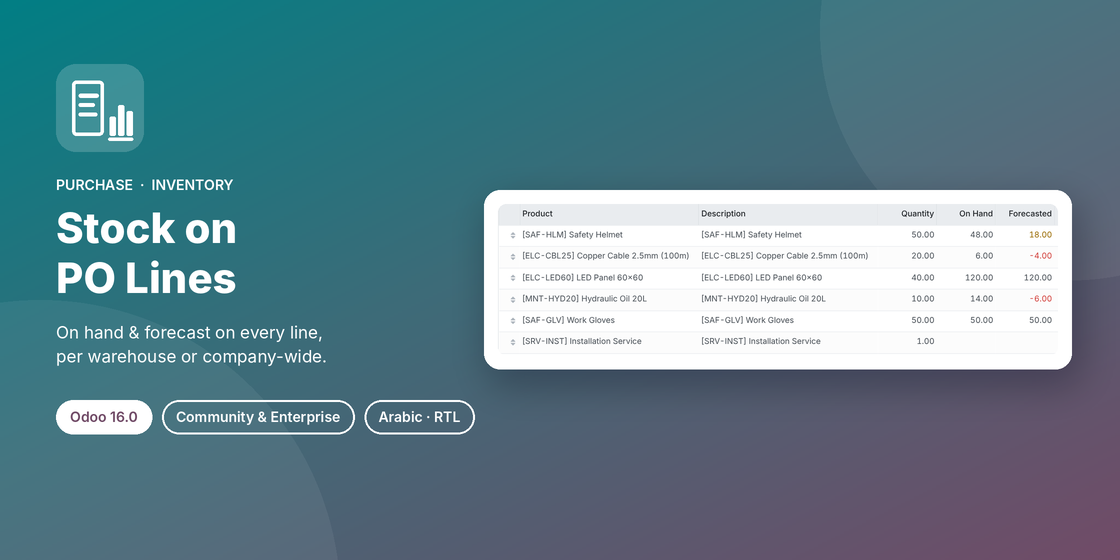
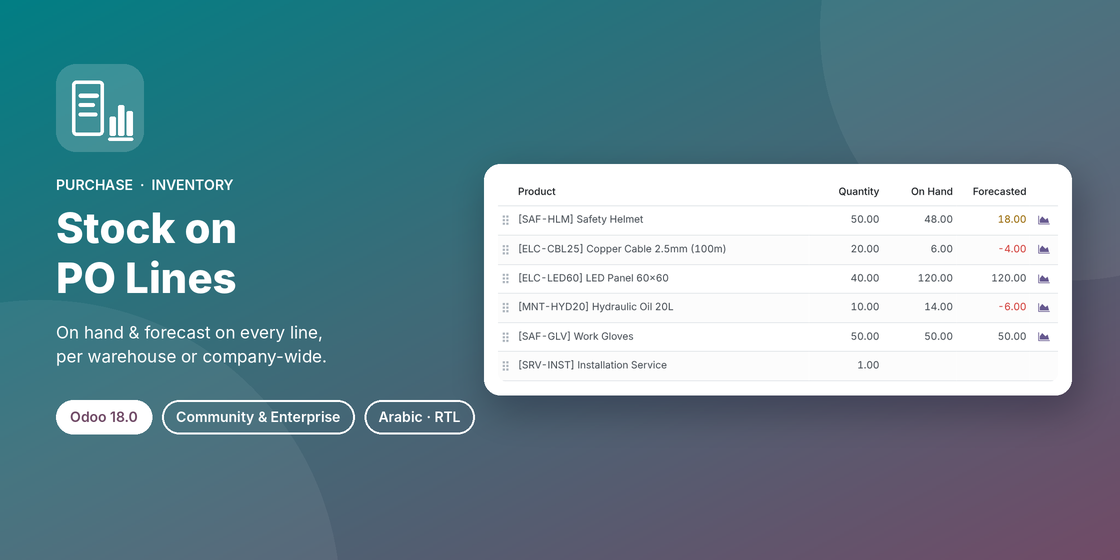
Add files via upload

diff --git a/po_line_available_stock/static/description/index.html b/po_line_available_stock/static/description/index.html
@@ -1,4 +1,4 @@
-<!-- Odoo Apps description page for po_line_available_stock (Odoo 16.0). Inline styles only: apps.odoo.com strips <style> and <script> blocks. -->
+<!-- Odoo Apps description page for po_line_available_stock (Odoo 18.0). Inline styles only: apps.odoo.com strips <style> and <script> blocks. -->
 <section style="max-width:1120px;margin:0 auto;padding:0 16px;font-family:-apple-system,BlinkMacSystemFont,'Segoe UI',Roboto,'Helvetica Neue',Arial,sans-serif;color:#2b2b33;">
 
 <!-- ============================== HERO ============================== -->
@@ -7,7 +7,7 @@
   <h1 style="font-size:40px;line-height:1.15;font-weight:700;margin:0 0 14px;color:#ffffff;">Stock on PO Lines</h1>
   <p style="font-size:19px;line-height:1.55;max-width:760px;margin:0 0 24px;color:#ffffff;opacity:.95;">See <b>On Hand</b> and <b>Forecasted</b> stock right next to the quantity on every purchase order line, for the receiving warehouse or for the whole company. Buyers order what is actually missing, without leaving the RFQ.</p>
   <div>
-    <span style="display:inline-block;border:1px solid rgba(255,255,255,.7);border-radius:20px;padding:6px 14px;margin:0 8px 8px 0;font-size:14px;">Odoo 16.0</span>
+    <span style="display:inline-block;border:1px solid rgba(255,255,255,.7);border-radius:20px;padding:6px 14px;margin:0 8px 8px 0;font-size:14px;">Odoo 18.0</span>
     <span style="display:inline-block;border:1px solid rgba(255,255,255,.7);border-radius:20px;padding:6px 14px;margin:0 8px 8px 0;font-size:14px;">Community &amp; Enterprise</span>
     <span style="display:inline-block;border:1px solid rgba(255,255,255,.7);border-radius:20px;padding:6px 14px;margin:0 8px 8px 0;font-size:14px;">15 automated tests</span>
     <span style="display:inline-block;border:1px solid rgba(255,255,255,.7);border-radius:20px;padding:6px 14px;margin:0 8px 8px 0;font-size:14px;">Arabic &middot; RTL</span>
@@ -29,7 +29,7 @@
 <p style="font-size:16px;color:#555;margin:0 0 18px;">A buyer preparing an RFQ needs one answer per line: how much do we already have, and how much will we have?</p>
 <div style="display:flex;flex-wrap:wrap;margin:0 -10px;">
   <div style="flex:1 1 440px;margin:10px;border:1px solid #f1d6d6;background:#fff8f8;border-radius:14px;padding:24px 26px;">
-    <h3 style="font-size:19px;font-weight:700;color:#b33939;margin:0 0 12px;">In standard Odoo 16</h3>
+    <h3 style="font-size:19px;font-weight:700;color:#b33939;margin:0 0 12px;">In standard Odoo 18</h3>
     <ul style="font-size:15px;line-height:1.65;margin:0;padding-left:20px;color:#3a3a42;">
       <li>PO lines show <b>no stock figures</b>; you open the forecast report <b>one product at a time</b>.</li>
       <li>Product stock is shown <b>for the whole company</b> unless you filter by warehouse yourself.</li>
@@ -128,7 +128,7 @@
   <div style="margin-bottom:6px;"><span style="display:inline-block;min-width:150px;text-align:center;background:#fee2e2;color:#b91c1c;border-radius:10px;padding:1px 8px;font-size:13px;margin-right:10px;">Red</span> On Hand or Forecasted below zero: more is promised than you have.</div>
   <div style="margin-bottom:6px;"><span style="display:inline-block;min-width:150px;text-align:center;background:#fef3c7;color:#b45309;border-radius:10px;padding:1px 8px;font-size:13px;margin-right:10px;">Amber</span> Forecasted is zero or more, but below the quantity on this line.</div>
   <div style="margin-bottom:6px;"><span style="display:inline-block;min-width:150px;text-align:center;background:#f3f4f6;color:#6b7280;border-radius:10px;padding:1px 8px;font-size:13px;margin-right:10px;">Grey</span> Nothing on hand in the scope.</div>
-  <div style="margin-bottom:6px;"><span style="display:inline-block;min-width:150px;text-align:center;background:#ffffff;color:#555;border:1px solid #e8e8ee;border-radius:10px;padding:0 8px;font-size:13px;margin-right:10px;">Blank</span> Service or consumable product: no stock is tracked.</div>
+  <div style="margin-bottom:6px;"><span style="display:inline-block;min-width:150px;text-align:center;background:#ffffff;color:#555;border:1px solid #e8e8ee;border-radius:10px;padding:0 8px;font-size:13px;margin-right:10px;">Blank</span> Service, or goods with <b>Track Inventory</b> unticked: no stock is tracked.</div>
 </div>
 <div style="background:#f4fbfb;border-left:4px solid #017E84;border-radius:8px;padding:16px 20px;font-size:15px;line-height:1.6;margin-top:14px;"><b>Rule:</b> Forecasted = On Hand + incoming &minus; outgoing, in the selected scope, converted to the line&rsquo;s unit. <b>Example:</b> Copper Cable in Jeddah has 6 on hand and an open delivery of 10, so Forecasted = 6 &minus; 10 = <b>&minus;4</b>. Once you confirm a PO, its own receipt counts as incoming: confirming 20 cables lifts the Jeddah forecast to <b>16</b>.</div>
 
@@ -141,7 +141,7 @@
   <div style="flex:1 1 320px;margin:8px;padding:16px 18px;border:1px solid #e8e8ee;border-radius:12px;"><b>Multi-company</b><br/><span style="color:#555;">Each company has its own settings, and company-wide scope never adds another company&rsquo;s warehouses, even with several companies selected.</span></div>
   <div style="flex:1 1 320px;margin:8px;padding:16px 18px;border:1px solid #e8e8ee;border-radius:12px;"><b>Large orders</b><br/><span style="color:#555;">Lines are grouped by warehouse and read in one batch: 3 lines and 40 lines take the same 13 database queries.</span></div>
   <div style="flex:1 1 320px;margin:8px;padding:16px 18px;border:1px solid #e8e8ee;border-radius:12px;"><b>Lists across warehouses</b><br/><span style="color:#555;">Lines from orders for different warehouses, read together, each get their own warehouse&rsquo;s figures.</span></div>
-  <div style="flex:1 1 320px;margin:8px;padding:16px 18px;border:1px solid #e8e8ee;border-radius:12px;"><b>Services and consumables</b><br/><span style="color:#555;">Non-storable products show a blank cell instead of a misleading zero.</span></div>
+  <div style="flex:1 1 320px;margin:8px;padding:16px 18px;border:1px solid #e8e8ee;border-radius:12px;"><b>Services and untracked goods</b><br/><span style="color:#555;">Services and goods without <b>Track Inventory</b> show a blank cell instead of a misleading zero.</span></div>
   <div style="flex:1 1 320px;margin:8px;padding:16px 18px;border:1px solid #e8e8ee;border-radius:12px;"><b>Unsaved changes</b><br/><span style="color:#555;">Figures follow the form while you edit: new lines, a new product, a new unit or a new Deliver To.</span></div>
   <div style="flex:1 1 320px;margin:8px;padding:16px 18px;border:1px solid #e8e8ee;border-radius:12px;"><b>Buyers without Inventory rights</b><br/><span style="color:#555;">A Purchase user with no Inventory access still sees the figures, with no access error.</span></div>
   <div style="flex:1 1 320px;margin:8px;padding:16px 18px;border:1px solid #e8e8ee;border-radius:12px;"><b>Nothing stored</b><br/><span style="color:#555;">The columns are computed on read, so they are never stale and add nothing to your database.</span></div>
@@ -163,7 +163,7 @@
 <h2 style="font-size:28px;font-weight:700;margin:48px 0 6px;color:#2b2b33;">Technical details</h2>
 <table style="width:100%;border-collapse:collapse;font-size:15px;margin-top:12px;">
   <tbody>
-    <tr style="border-bottom:1px solid #eee;"><td style="padding:10px 14px;width:240px;color:#777;">Odoo version</td><td style="padding:10px 14px;">16.0, Community and Enterprise</td></tr>
+    <tr style="border-bottom:1px solid #eee;"><td style="padding:10px 14px;width:240px;color:#777;">Odoo version</td><td style="padding:10px 14px;">18.0, Community and Enterprise</td></tr>
     <tr style="border-bottom:1px solid #eee;background:#fafafa;"><td style="padding:10px 14px;width:240px;color:#777;">Depends on</td><td style="padding:10px 14px;"><code>purchase_stock</code></td></tr>
     <tr style="border-bottom:1px solid #eee;"><td style="padding:10px 14px;width:240px;color:#777;">Python dependency</td><td style="padding:10px 14px;">None</td></tr>
     <tr style="border-bottom:1px solid #eee;background:#fafafa;"><td style="padding:10px 14px;width:240px;color:#777;">Settings</td><td style="padding:10px 14px;">Purchase &rsaquo; Configuration &rsaquo; Settings &rsaquo; Orders &rsaquo; Stock on PO Lines</td></tr>

diff --git a/po_line_available_stock/models/purchase_order_line.py b/po_line_available_stock/models/purchase_order_line.py
@@ -75,7 +75,9 @@ class PurchaseOrderLine(models.Model):
             line.pls_qty_on_hand = 0.0
             line.pls_qty_forecasted = 0.0
             product = line.product_id
-            line.pls_is_storable = bool(product) and product.type == "product"
+            # v18: the "Storable Product" type is gone; storable goods are
+            # type "consu" with is_storable ("Track Inventory") ticked.
+            line.pls_is_storable = bool(product) and product.is_storable
             company = line.order_id.company_id or line.company_id or self.env.company
             if not company.po_stock_visibility or not line.pls_is_storable:
                 continue
@@ -88,7 +90,8 @@ class PurchaseOrderLine(models.Model):
             products = lines.product_id._origin
             stock = (
                 products.with_company(company_id)
-                .with_context(warehouse=list(wh_ids), location=False)
+                # v18 reads ``warehouse_id`` (``warehouse`` is silently ignored)
+                .with_context(warehouse_id=list(wh_ids), location=False)
                 ._compute_quantities_dict(None, None, None)
             )
             for line in lines:

diff --git a/po_line_available_stock/tests/test_po_line_available_stock.py b/po_line_available_stock/tests/test_po_line_available_stock.py
@@ -43,7 +43,7 @@ class TestPoLineAvailableStock(TransactionCase):
     @classmethod
     def _make_product(cls, name):
         return cls.env["product.product"].create({
-            "name": name, "type": "product",
+            "name": name, "type": "consu", "is_storable": True,
             "uom_id": cls.uom_unit.id, "uom_po_id": cls.uom_unit.id,
         })
 
@@ -167,6 +167,9 @@ class TestPoLineAvailableStock(TransactionCase):
             "name": "PLS Dropship", "code": "incoming",
             "sequence_code": "PLSDS", "warehouse_id": False,
             "company_id": self.company.id,
+            # v18: both default locations are required; without a warehouse
+            # they can't be computed, so set them as a real dropship type does
+            "default_location_src_id": self.env.ref("stock.stock_location_suppliers").id,
             "default_location_dest_id": self.customer_loc.id,
         })
         po = self._make_po(self.wh1, [(self.product, 1, None)],

diff --git a/po_line_available_stock/__manifest__.py b/po_line_available_stock/__manifest__.py
@@ -14,7 +14,7 @@ Display live stock levels on purchase order lines.
   warehouses, not with the number of lines
 * Arabic (ar_001) translation, RTL-ready
 """,
-    "version": "16.0.1.0.0",
+    "version": "18.0.1.0.0",
     "category": "Inventory/Purchase",
     "author": "Ibrahim Yahia",
     "website": "https://www.linkedin.com/in/ibrahim-yahia",
